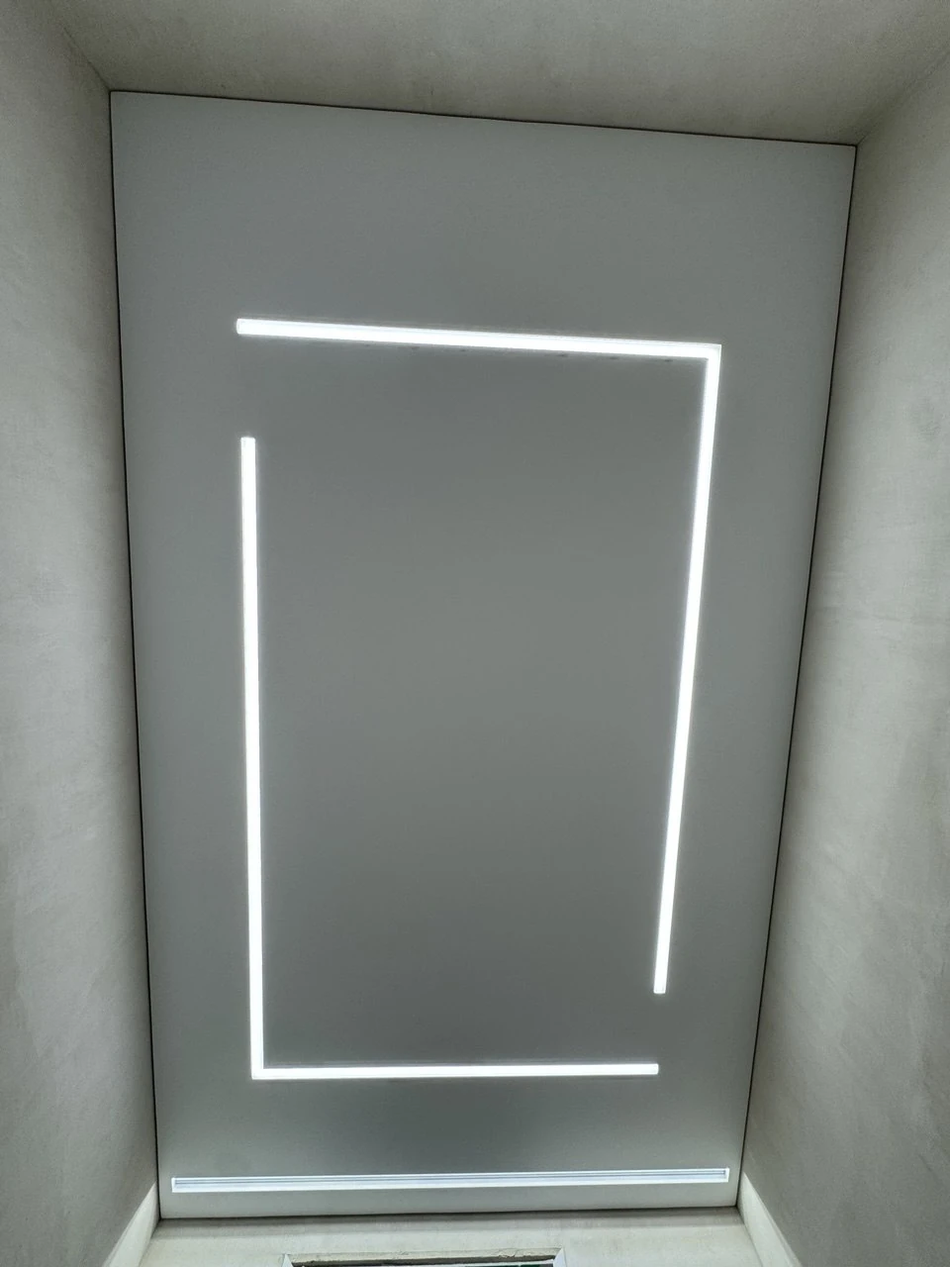
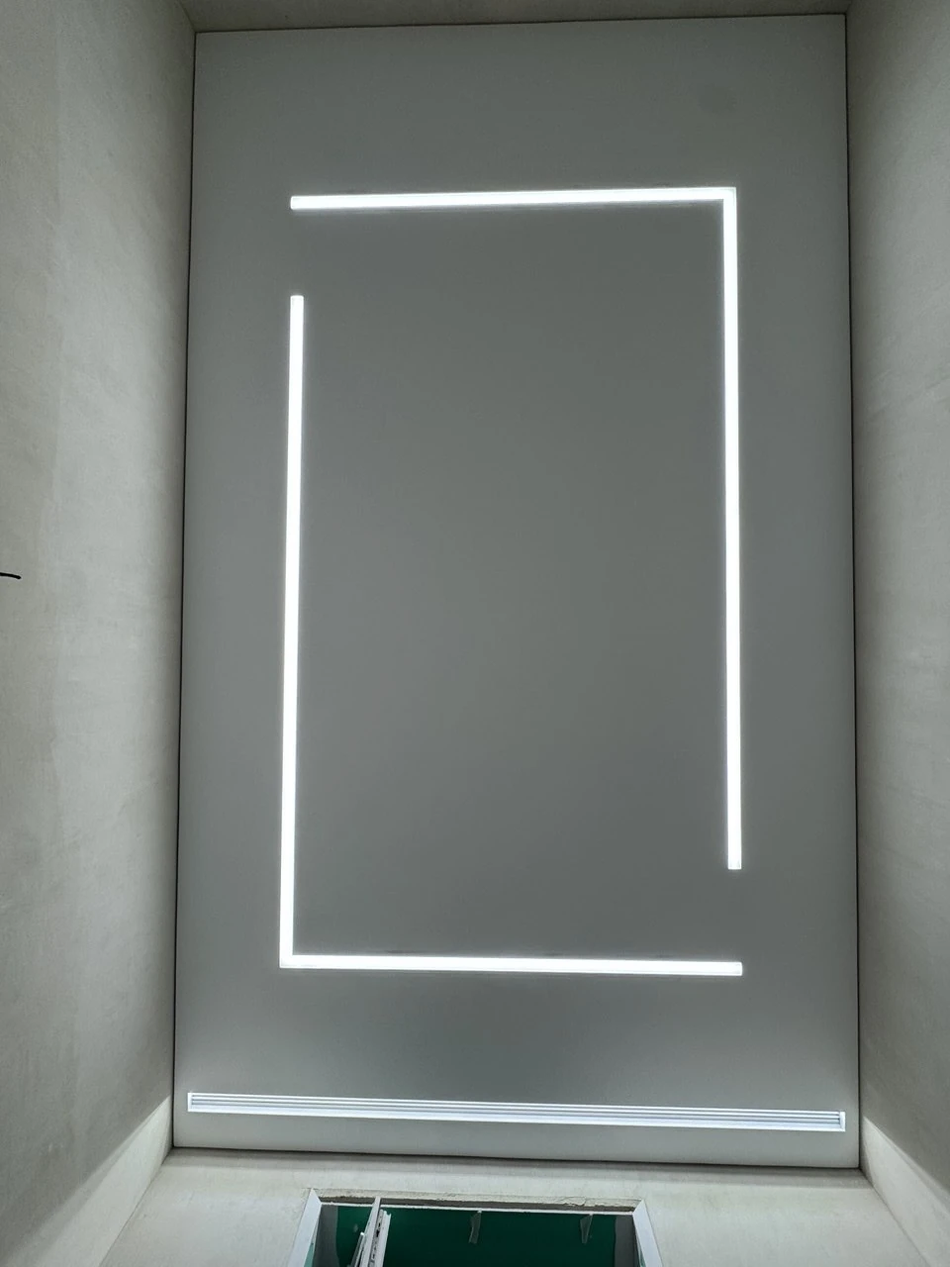
Портфолио: 17 работ в порядке заказчика
Заказчик прислал работы для сайта по порядку — портфолио теперь ровно
этот список и в этой последовательности. 12 новых фото (третья партия),
световые линии буквой Г — новый кадр той же комнаты, повёрнут под ракурс
монтажа. Работы не из списка сняты с сайта, файлы остались.

diff --git a/index.html b/index.html
@@ -30,7 +30,7 @@ if (location.hostname.endsWith('github.io')) {
 
 <link rel="icon" href="img/favicon.svg" type="image/svg+xml">
 <link rel="preload" href="fonts/onest-cyrillic.woff2" as="font" type="font/woff2" crossorigin>
-<link rel="stylesheet" href="css/style.css?v=21">
+<link rel="stylesheet" href="css/style.css?v=22">
 
 <script type="application/ld+json">
 {
@@ -416,28 +416,28 @@ if (location.hostname.endsWith('github.io')) {
       <button class="filter" type="button" data-filter="soty" aria-pressed="false">LED-соты</button>
     </div>
 
-    <!-- Порядок = порядок показа: первые 8 видно сразу (на планшете 9),
+    <!-- Порядок задал заказчик (10.10.2026) — не менять. Первые 8 видно сразу (на планшете 9),
          остальные открывает кнопка «Показать ещё». На телефоне — лента целиком. -->
     <div class="works" id="works">
-      <button class="work" type="button" data-tags="track" aria-label="Открыть фото: Кухня с треком-рамкой">
+      <button class="work" type="button" data-tags="floating" aria-label="Открыть фото: Парящий потолок с подсветкой">
         <span class="work__media">
-          <img src="img/portfolio/kuhnya-trek-ramka.webp" srcset="img/portfolio/kuhnya-trek-ramka.webp 600w, img/portfolio/lg/kuhnya-trek-ramka.webp 788w" sizes="(max-width: 639px) 78vw, (max-width: 1023px) 31vw, 270px" data-full="img/portfolio/full/kuhnya-trek-ramka.webp" width="600" height="800" loading="lazy" alt="Встроенная трековая система рамкой на натяжном потолке кухни, Ижевск" data-ph="Кухня с треком-рамкой">
+          <img src="img/portfolio/paryashchiy-podsvetka.webp" srcset="img/portfolio/paryashchiy-podsvetka.webp 600w, img/portfolio/lg/paryashchiy-podsvetka.webp 893w" sizes="(max-width: 639px) 78vw, (max-width: 1023px) 31vw, 270px" data-full="img/portfolio/full/paryashchiy-podsvetka.webp" width="600" height="800" loading="lazy" alt="Парящий потолок с подсветкой по всему периметру, матовое полотно, Ижевск" data-ph="Парящий потолок с подсветкой">
           <span class="work__zoom" aria-hidden="true"><svg width="17" height="17" viewBox="0 0 24 24" fill="none" stroke="currentColor" stroke-width="2" stroke-linecap="round"><circle cx="11" cy="11" r="7"/><path d="M21 21l-4.3-4.3M11 8v6M8 11h6"/></svg></span>
         </span>
         <span class="work__body">
-          <span class="work__title">Кухня с треком-рамкой</span>
-          <span class="work__meta">Встроенный трек рамкой · линейные светильники</span>
+          <span class="work__title">Парящий потолок с подсветкой</span>
+          <span class="work__meta">Свет по всему периметру · матовое полотно</span>
         </span>
       </button>
 
-      <button class="work" type="button" data-tags="line" aria-label="Открыть фото: Световые линии буквой Г">
+      <button class="work" type="button" data-tags="shadow" aria-label="Открыть фото: Прихожая с теневым профилем">
         <span class="work__media">
-          <img src="img/portfolio/svetovye-linii-bukvoy-g.webp" srcset="img/portfolio/svetovye-linii-bukvoy-g.webp 600w, img/portfolio/lg/svetovye-linii-bukvoy-g.webp 960w" sizes="(max-width: 639px) 78vw, (max-width: 1023px) 31vw, 270px" data-full="img/portfolio/full/svetovye-linii-bukvoy-g.webp" width="600" height="800" loading="lazy" alt="Две Г-образные световые линии на матовом натяжном потолке, Ижевск" data-ph="Световые линии буквой Г">
+          <img src="img/portfolio/prihozhaya-tenevoy-spoty.webp" srcset="img/portfolio/prihozhaya-tenevoy-spoty.webp 600w, img/portfolio/lg/prihozhaya-tenevoy-spoty.webp 960w" sizes="(max-width: 639px) 78vw, (max-width: 1023px) 31vw, 270px" data-full="img/portfolio/full/prihozhaya-tenevoy-spoty.webp" width="600" height="800" loading="lazy" alt="Натяжной потолок с теневым профилем и точечными светильниками в прихожей, Ижевск" data-ph="Прихожая с теневым профилем">
           <span class="work__zoom" aria-hidden="true"><svg width="17" height="17" viewBox="0 0 24 24" fill="none" stroke="currentColor" stroke-width="2" stroke-linecap="round"><circle cx="11" cy="11" r="7"/><path d="M21 21l-4.3-4.3M11 8v6M8 11h6"/></svg></span>
         </span>
         <span class="work__body">
-          <span class="work__title">Световые линии буквой Г</span>
-          <span class="work__meta">Две Г-образные линии и прямая вдоль стены</span>
+          <span class="work__title">Прихожая с теневым профилем</span>
+          <span class="work__meta">Теневой шов по контуру · точечные светильники</span>
         </span>
       </button>
 
@@ -452,47 +452,25 @@ if (location.hostname.endsWith('github.io')) {
         </span>
       </button>
 
-      <button class="work" type="button" data-tags="track" aria-label="Открыть фото: Трековая система на глянце">
+      <button class="work" type="button" data-tags="line" aria-label="Открыть фото: Монтаж световых линий">
         <span class="work__media">
-          <img src="img/portfolio/trek-glyanec.webp" srcset="img/portfolio/trek-glyanec.webp 600w, img/portfolio/lg/trek-glyanec.webp 720w" sizes="(max-width: 639px) 78vw, (max-width: 1023px) 31vw, 270px" data-full="img/portfolio/full/trek-glyanec.webp" width="600" height="800" loading="lazy" alt="Натяжной потолок с магнитной трековой системой на глянцевом полотне, Ижевск" data-ph="Трековая система на глянце">
+          <img src="img/portfolio/montazh-svetovyh-liniy.webp" srcset="img/portfolio/montazh-svetovyh-liniy.webp 600w, img/portfolio/lg/montazh-svetovyh-liniy.webp 960w" sizes="(max-width: 639px) 78vw, (max-width: 1023px) 31vw, 270px" data-full="img/portfolio/full/montazh-svetovyh-liniy.webp" width="600" height="800" loading="lazy" alt="Монтаж профилей световых линий на черновом потолке до натяжки полотна, Ижевск" data-ph="Монтаж световых линий">
           <span class="work__zoom" aria-hidden="true"><svg width="17" height="17" viewBox="0 0 24 24" fill="none" stroke="currentColor" stroke-width="2" stroke-linecap="round"><circle cx="11" cy="11" r="7"/><path d="M21 21l-4.3-4.3M11 8v6M8 11h6"/></svg></span>
         </span>
         <span class="work__body">
-          <span class="work__title">Трековая система на глянце</span>
-          <span class="work__meta">Магнитный шинопровод · Г-образная раскладка</span>
+          <span class="work__title">Монтаж световых линий</span>
+          <span class="work__meta">Профили линий на черновом потолке до натяжки</span>
         </span>
       </button>
 
-      <button class="work" type="button" data-tags="cornice" aria-label="Открыть фото: Лоджия со скрытым карнизом">
+      <button class="work" type="button" data-tags="line" aria-label="Открыть фото: Световые линии буквой Г">
         <span class="work__media">
-          <img src="img/portfolio/lodzhiya-skrytyy-karniz.webp" srcset="img/portfolio/lodzhiya-skrytyy-karniz.webp 600w, img/portfolio/lg/lodzhiya-skrytyy-karniz.webp 768w" sizes="(max-width: 639px) 78vw, (max-width: 1023px) 31vw, 270px" data-full="img/portfolio/full/lodzhiya-skrytyy-karniz.webp" width="600" height="800" loading="lazy" alt="Скрытый карниз с подсветкой и накладные светильники на натяжном потолке лоджии, Ижевск" data-ph="Лоджия со скрытым карнизом">
+          <img src="img/portfolio/svetovye-linii-bukvoy-g.webp" srcset="img/portfolio/svetovye-linii-bukvoy-g.webp 600w, img/portfolio/lg/svetovye-linii-bukvoy-g.webp 960w" sizes="(max-width: 639px) 78vw, (max-width: 1023px) 31vw, 270px" data-full="img/portfolio/full/svetovye-linii-bukvoy-g.webp" width="600" height="800" loading="lazy" alt="Две Г-образные световые линии на матовом натяжном потолке, Ижевск" data-ph="Световые линии буквой Г">
           <span class="work__zoom" aria-hidden="true"><svg width="17" height="17" viewBox="0 0 24 24" fill="none" stroke="currentColor" stroke-width="2" stroke-linecap="round"><circle cx="11" cy="11" r="7"/><path d="M21 21l-4.3-4.3M11 8v6M8 11h6"/></svg></span>
         </span>
         <span class="work__body">
-          <span class="work__title">Лоджия со скрытым карнизом</span>
-          <span class="work__meta">Ниша под шторы с подсветкой · накладные светильники</span>
-        </span>
-      </button>
-
-      <button class="work" type="button" data-tags="line" aria-label="Открыть фото: Мансарда со световыми линиями">
-        <span class="work__media">
-          <img src="img/portfolio/mansarda-svetovye-linii.webp" srcset="img/portfolio/mansarda-svetovye-linii.webp 600w, img/portfolio/lg/mansarda-svetovye-linii.webp 691w" sizes="(max-width: 639px) 78vw, (max-width: 1023px) 31vw, 270px" data-full="img/portfolio/full/mansarda-svetovye-linii.webp" width="600" height="800" loading="lazy" alt="Световые линии на натяжном потолке мансарды со скатами, Ижевск" data-ph="Мансарда со световыми линиями">
-          <span class="work__zoom" aria-hidden="true"><svg width="17" height="17" viewBox="0 0 24 24" fill="none" stroke="currentColor" stroke-width="2" stroke-linecap="round"><circle cx="11" cy="11" r="7"/><path d="M21 21l-4.3-4.3M11 8v6M8 11h6"/></svg></span>
-        </span>
-        <span class="work__body">
-          <span class="work__title">Мансарда со световыми линиями</span>
-          <span class="work__meta">Г-образные линии на скатах · мансардные окна</span>
-        </span>
-      </button>
-
-      <button class="work" type="button" data-tags="track shadow" aria-label="Открыть фото: Прихожая сложной формы">
-        <span class="work__media">
-          <img src="img/portfolio/prihozhaya-trek-tenevoy.webp" srcset="img/portfolio/prihozhaya-trek-tenevoy.webp 600w, img/portfolio/lg/prihozhaya-trek-tenevoy.webp 960w" sizes="(max-width: 639px) 78vw, (max-width: 1023px) 31vw, 270px" data-full="img/portfolio/full/prihozhaya-trek-tenevoy.webp" width="600" height="800" loading="lazy" alt="Натяжной потолок сложной формы с теневым профилем и встроенным треком в прихожей, Ижевск" data-ph="Прихожая сложной формы">
-          <span class="work__zoom" aria-hidden="true"><svg width="17" height="17" viewBox="0 0 24 24" fill="none" stroke="currentColor" stroke-width="2" stroke-linecap="round"><circle cx="11" cy="11" r="7"/><path d="M21 21l-4.3-4.3M11 8v6M8 11h6"/></svg></span>
-        </span>
-        <span class="work__body">
-          <span class="work__title">Прихожая сложной формы</span>
-          <span class="work__meta">Теневой профиль по контуру · трек со спотами</span>
+          <span class="work__title">Световые линии буквой Г</span>
+          <span class="work__meta">Две Г-образные линии и прямая вдоль стены</span>
         </span>
       </button>
 
@@ -507,113 +485,124 @@ if (location.hostname.endsWith('github.io')) {
         </span>
       </button>
 
-      <button class="work" type="button" data-tags="shadow" aria-label="Открыть фото: Санузел с теневым профилем">
+      <button class="work" type="button" data-tags="track" aria-label="Открыть фото: Трек вдоль стеллажей">
         <span class="work__media">
-          <img src="img/portfolio/tenevoy-profil-sanuzel.webp" srcset="img/portfolio/tenevoy-profil-sanuzel.webp 600w, img/portfolio/lg/tenevoy-profil-sanuzel.webp 960w" sizes="(max-width: 639px) 78vw, (max-width: 1023px) 31vw, 270px" data-full="img/portfolio/full/tenevoy-profil-sanuzel.webp" width="600" height="800" loading="lazy" alt="Натяжной потолок с теневым профилем EuroKraab в санузле, Ижевск" data-ph="Санузел с теневым профилем">
+          <img src="img/portfolio/komnata-trek-polki.webp" srcset="img/portfolio/komnata-trek-polki.webp 600w, img/portfolio/lg/komnata-trek-polki.webp 960w" sizes="(max-width: 639px) 78vw, (max-width: 1023px) 31vw, 270px" data-full="img/portfolio/full/komnata-trek-polki.webp" width="600" height="800" loading="lazy" alt="Встроенный чёрный трек со спотами вдоль стеллажей, Ижевск" data-ph="Трек вдоль стеллажей">
           <span class="work__zoom" aria-hidden="true"><svg width="17" height="17" viewBox="0 0 24 24" fill="none" stroke="currentColor" stroke-width="2" stroke-linecap="round"><circle cx="11" cy="11" r="7"/><path d="M21 21l-4.3-4.3M11 8v6M8 11h6"/></svg></span>
         </span>
         <span class="work__body">
-          <span class="work__title">Санузел с теневым профилем</span>
-          <span class="work__meta">Теневой шов по периметру · 4 точечных светильника</span>
+          <span class="work__title">Трек вдоль стеллажей</span>
+          <span class="work__meta">Чёрный трек буквой Г · споты</span>
         </span>
       </button>
 
-      <button class="work" type="button" data-tags="track shadow" aria-label="Открыть фото: Комната с длинным треком">
+      <button class="work" type="button" data-tags="line" aria-label="Открыть фото: Световая линия буквой Г">
         <span class="work__media">
-          <img src="img/portfolio/komnata-trek-tenevoy.webp" srcset="img/portfolio/komnata-trek-tenevoy.webp 600w, img/portfolio/lg/komnata-trek-tenevoy.webp 902w" sizes="(max-width: 639px) 78vw, (max-width: 1023px) 31vw, 270px" data-full="img/portfolio/full/komnata-trek-tenevoy.webp" width="600" height="800" loading="lazy" alt="Встроенный чёрный трек со спотами и теневой профиль по периметру комнаты, Ижевск" data-ph="Комната с длинным треком">
+          <img src="img/portfolio/liniya-bukvoy-g-svetilnik.webp" srcset="img/portfolio/liniya-bukvoy-g-svetilnik.webp 600w, img/portfolio/lg/liniya-bukvoy-g-svetilnik.webp 960w" sizes="(max-width: 639px) 78vw, (max-width: 1023px) 31vw, 270px" data-full="img/portfolio/full/liniya-bukvoy-g-svetilnik.webp" width="600" height="800" loading="lazy" alt="Г-образная световая линия и накладной светильник на натяжном потолке, Ижевск" data-ph="Световая линия буквой Г">
           <span class="work__zoom" aria-hidden="true"><svg width="17" height="17" viewBox="0 0 24 24" fill="none" stroke="currentColor" stroke-width="2" stroke-linecap="round"><circle cx="11" cy="11" r="7"/><path d="M21 21l-4.3-4.3M11 8v6M8 11h6"/></svg></span>
         </span>
         <span class="work__body">
-          <span class="work__title">Комната с длинным треком</span>
-          <span class="work__meta">Чёрный трек со спотами · теневой профиль</span>
+          <span class="work__title">Световая линия буквой Г</span>
+          <span class="work__meta">Линия вдоль стены · светильник на три плафона</span>
         </span>
       </button>
 
-      <button class="work" type="button" data-tags="track cornice shadow" aria-label="Открыть фото: Холл с трековым контуром">
+      <button class="work" type="button" data-tags="track cornice" aria-label="Открыть фото: Глянец с линейным светом">
         <span class="work__media">
-          <img src="img/portfolio/trek-karniz-vstavka.webp" srcset="img/portfolio/trek-karniz-vstavka.webp 600w, img/portfolio/lg/trek-karniz-vstavka.webp 884w" sizes="(max-width: 639px) 78vw, (max-width: 1023px) 31vw, 270px" data-full="img/portfolio/full/trek-karniz-vstavka.webp" width="600" height="800" loading="lazy" alt="Замкнутый контур трековой системы, скрытый карниз и чёрная вставка по периметру, Ижевск" data-ph="Холл с трековым контуром">
+          <img src="img/portfolio/glyanec-lineynye-svetilniki.webp" srcset="img/portfolio/glyanec-lineynye-svetilniki.webp 600w, img/portfolio/lg/glyanec-lineynye-svetilniki.webp 960w" sizes="(max-width: 639px) 78vw, (max-width: 1023px) 31vw, 270px" data-full="img/portfolio/full/glyanec-lineynye-svetilniki.webp" width="600" height="800" loading="lazy" alt="Глянцевый натяжной потолок с трековыми линейными светильниками, Ижевск" data-ph="Глянец с линейным светом">
           <span class="work__zoom" aria-hidden="true"><svg width="17" height="17" viewBox="0 0 24 24" fill="none" stroke="currentColor" stroke-width="2" stroke-linecap="round"><circle cx="11" cy="11" r="7"/><path d="M21 21l-4.3-4.3M11 8v6M8 11h6"/></svg></span>
         </span>
         <span class="work__body">
-          <span class="work__title">Холл с трековым контуром</span>
-          <span class="work__meta">Замкнутая рамка трека · скрытый карниз · чёрная вставка</span>
+          <span class="work__title">Глянец с линейным светом</span>
+          <span class="work__meta">Трек с линейными светильниками · подсветка у окна</span>
         </span>
       </button>
 
-      <button class="work" type="button" data-tags="floating" aria-label="Открыть фото: Парящий потолок с подсветкой">
+      <button class="work" type="button" data-tags="track" aria-label="Открыть фото: Трек буквой Г">
         <span class="work__media">
-          <img src="img/portfolio/paryashchiy-podsvetka.webp" srcset="img/portfolio/paryashchiy-podsvetka.webp 600w, img/portfolio/lg/paryashchiy-podsvetka.webp 893w" sizes="(max-width: 639px) 78vw, (max-width: 1023px) 31vw, 270px" data-full="img/portfolio/full/paryashchiy-podsvetka.webp" width="600" height="800" loading="lazy" alt="Парящий потолок с подсветкой по всему периметру, матовое полотно, Ижевск" data-ph="Парящий потолок с подсветкой">
+          <img src="img/portfolio/trek-bukvoy-g.webp" srcset="img/portfolio/trek-bukvoy-g.webp 600w, img/portfolio/lg/trek-bukvoy-g.webp 960w" sizes="(max-width: 639px) 78vw, (max-width: 1023px) 31vw, 270px" data-full="img/portfolio/full/trek-bukvoy-g.webp" width="600" height="800" loading="lazy" alt="Г-образный встроенный трек с линейными светильниками, Ижевск" data-ph="Трек буквой Г">
           <span class="work__zoom" aria-hidden="true"><svg width="17" height="17" viewBox="0 0 24 24" fill="none" stroke="currentColor" stroke-width="2" stroke-linecap="round"><circle cx="11" cy="11" r="7"/><path d="M21 21l-4.3-4.3M11 8v6M8 11h6"/></svg></span>
         </span>
         <span class="work__body">
-          <span class="work__title">Парящий потолок с подсветкой</span>
-          <span class="work__meta">Свет по всему периметру · матовое полотно</span>
+          <span class="work__title">Трек буквой Г</span>
+          <span class="work__meta">Встроенный трек с линейными светильниками</span>
         </span>
       </button>
 
-      <button class="work" type="button" data-tags="line" aria-label="Открыть фото: Световая линия на глянце">
+      <button class="work" type="button" data-tags="track cornice" aria-label="Открыть фото: Два параллельных трека">
         <span class="work__media">
-          <img src="img/portfolio/svetovaya-liniya-glyanec.webp" srcset="img/portfolio/svetovaya-liniya-glyanec.webp 600w, img/portfolio/lg/svetovaya-liniya-glyanec.webp 768w" sizes="(max-width: 639px) 78vw, (max-width: 1023px) 31vw, 270px" data-full="img/portfolio/full/svetovaya-liniya-glyanec.webp" width="600" height="800" loading="lazy" alt="Прямая световая линия с поликарбонатным рассеивателем на глянцевом потолке, Ижевск" data-ph="Световая линия на глянце">
+          <img src="img/portfolio/dva-treka-glyanec.webp" srcset="img/portfolio/dva-treka-glyanec.webp 600w, img/portfolio/lg/dva-treka-glyanec.webp 960w" sizes="(max-width: 639px) 78vw, (max-width: 1023px) 31vw, 270px" data-full="img/portfolio/full/dva-treka-glyanec.webp" width="600" height="800" loading="lazy" alt="Два параллельных трека с линейными светильниками на глянцевом потолке, Ижевск" data-ph="Два параллельных трека">
           <span class="work__zoom" aria-hidden="true"><svg width="17" height="17" viewBox="0 0 24 24" fill="none" stroke="currentColor" stroke-width="2" stroke-linecap="round"><circle cx="11" cy="11" r="7"/><path d="M21 21l-4.3-4.3M11 8v6M8 11h6"/></svg></span>
         </span>
         <span class="work__body">
-          <span class="work__title">Световая линия на глянце</span>
-          <span class="work__meta">Ровный свет без точек и засветов</span>
+          <span class="work__title">Два параллельных трека</span>
+          <span class="work__meta">Линейные светильники на глянце · ниша под шторы</span>
         </span>
       </button>
 
-      <button class="work" type="button" data-tags="floating cornice" aria-label="Открыть фото: Кухня с парящим потолком">
+      <button class="work" type="button" data-tags="line shadow" aria-label="Открыть фото: Санузел со световой линией">
         <span class="work__media">
-          <img src="img/portfolio/paryashchiy-kuhnya.webp" srcset="img/portfolio/paryashchiy-kuhnya.webp 600w, img/portfolio/lg/paryashchiy-kuhnya.webp 768w" sizes="(max-width: 639px) 78vw, (max-width: 1023px) 31vw, 270px" data-full="img/portfolio/full/paryashchiy-kuhnya.webp" width="600" height="800" loading="lazy" alt="Парящий натяжной потолок с контурной подсветкой и подвесной люстрой на кухне, Ижевск" data-ph="Кухня с парящим потолком">
+          <img src="img/portfolio/sanuzel-spoty-liniya.webp" srcset="img/portfolio/sanuzel-spoty-liniya.webp 600w, img/portfolio/lg/sanuzel-spoty-liniya.webp 720w" sizes="(max-width: 639px) 78vw, (max-width: 1023px) 31vw, 270px" data-full="img/portfolio/full/sanuzel-spoty-liniya.webp" width="600" height="800" loading="lazy" alt="Натяжной потолок в санузле с точечными светильниками и световой линией, Ижевск" data-ph="Санузел со световой линией">
           <span class="work__zoom" aria-hidden="true"><svg width="17" height="17" viewBox="0 0 24 24" fill="none" stroke="currentColor" stroke-width="2" stroke-linecap="round"><circle cx="11" cy="11" r="7"/><path d="M21 21l-4.3-4.3M11 8v6M8 11h6"/></svg></span>
         </span>
         <span class="work__body">
-          <span class="work__title">Кухня с парящим потолком</span>
-          <span class="work__meta">Контурная подсветка · люстра · трековые споты</span>
+          <span class="work__title">Санузел со световой линией</span>
+          <span class="work__meta">Четыре светильника · линия в углу · теневой профиль</span>
         </span>
       </button>
 
-      <button class="work" type="button" data-tags="cornice" aria-label="Открыть фото: Санузел под ключ">
+      <button class="work" type="button" data-tags="cornice" aria-label="Открыть фото: Комната с мансардным окном">
         <span class="work__media">
-          <img src="img/portfolio/tochechnye-sanuzel.webp" srcset="img/portfolio/tochechnye-sanuzel.webp 600w, img/portfolio/lg/tochechnye-sanuzel.webp 960w" sizes="(max-width: 639px) 78vw, (max-width: 1023px) 31vw, 270px" data-full="img/portfolio/full/tochechnye-sanuzel.webp" width="600" height="800" loading="lazy" alt="Натяжной потолок в санузле с точечными светильниками и подсветкой ниши, Ижевск" data-ph="Санузел под ключ">
+          <img src="img/portfolio/mansardnoe-okno-karniz.webp" srcset="img/portfolio/mansardnoe-okno-karniz.webp 600w, img/portfolio/lg/mansardnoe-okno-karniz.webp 960w" sizes="(max-width: 639px) 78vw, (max-width: 1023px) 31vw, 270px" data-full="img/portfolio/full/mansardnoe-okno-karniz.webp" width="600" height="800" loading="lazy" alt="Натяжной потолок со скрытым карнизом с подсветкой у мансардного окна, Ижевск" data-ph="Комната с мансардным окном">
           <span class="work__zoom" aria-hidden="true"><svg width="17" height="17" viewBox="0 0 24 24" fill="none" stroke="currentColor" stroke-width="2" stroke-linecap="round"><circle cx="11" cy="11" r="7"/><path d="M21 21l-4.3-4.3M11 8v6M8 11h6"/></svg></span>
         </span>
         <span class="work__body">
-          <span class="work__title">Санузел под ключ</span>
-          <span class="work__meta">Точечные светильники · подсветка ниши</span>
+          <span class="work__title">Комната с мансардным окном</span>
+          <span class="work__meta">Скрытый карниз с подсветкой у окна</span>
         </span>
       </button>
 
-      <button class="work" type="button" data-tags="track" aria-label="Открыть фото: Детская с трековым светом">
+      <button class="work" type="button" data-tags="line shadow" aria-label="Открыть фото: Две световые линии">
         <span class="work__media">
-          <img src="img/portfolio/trek-lyustra-detskaya.webp" srcset="img/portfolio/trek-lyustra-detskaya.webp 600w, img/portfolio/lg/trek-lyustra-detskaya.webp 960w" sizes="(max-width: 639px) 78vw, (max-width: 1023px) 31vw, 270px" data-full="img/portfolio/full/trek-lyustra-detskaya.webp" width="600" height="800" loading="lazy" alt="Натяжной потолок в детской с трековыми спотами и люстрой, Ижевск" data-ph="Детская с трековым светом">
+          <img src="img/portfolio/dve-linii-tenevoy.webp" srcset="img/portfolio/dve-linii-tenevoy.webp 600w, img/portfolio/lg/dve-linii-tenevoy.webp 960w" sizes="(max-width: 639px) 78vw, (max-width: 1023px) 31vw, 270px" data-full="img/portfolio/full/dve-linii-tenevoy.webp" width="600" height="800" loading="lazy" alt="Две параллельные световые линии и теневой профиль на натяжном потолке, Ижевск" data-ph="Две световые линии">
           <span class="work__zoom" aria-hidden="true"><svg width="17" height="17" viewBox="0 0 24 24" fill="none" stroke="currentColor" stroke-width="2" stroke-linecap="round"><circle cx="11" cy="11" r="7"/><path d="M21 21l-4.3-4.3M11 8v6M8 11h6"/></svg></span>
         </span>
         <span class="work__body">
-          <span class="work__title">Детская с трековым светом</span>
-          <span class="work__meta">Трек со спотами · люстра-самолёт</span>
+          <span class="work__title">Две световые линии</span>
+          <span class="work__meta">Параллельные линии · теневой профиль</span>
         </span>
       </button>
 
-      <button class="work" type="button" data-tags="line" aria-label="Открыть фото: Монтаж световой линии">
+      <button class="work" type="button" data-tags="floating" aria-label="Открыть фото: Ванная с люстрой-кольцом">
         <span class="work__media">
-          <img src="img/portfolio/montazh-svetovoy-linii.webp" srcset="img/portfolio/montazh-svetovoy-linii.webp 600w, img/portfolio/lg/montazh-svetovoy-linii.webp 922w" sizes="(max-width: 639px) 78vw, (max-width: 1023px) 31vw, 270px" data-full="img/portfolio/full/montazh-svetovoy-linii.webp" width="600" height="800" loading="lazy" alt="Монтаж П-образной световой линии на черновом потолке до натяжки полотна, Ижевск" data-ph="Монтаж световой линии">
+          <img src="img/portfolio/vannaya-lyustra-kolco.webp" srcset="img/portfolio/vannaya-lyustra-kolco.webp 600w, img/portfolio/lg/vannaya-lyustra-kolco.webp 960w" sizes="(max-width: 639px) 78vw, (max-width: 1023px) 31vw, 270px" data-full="img/portfolio/full/vannaya-lyustra-kolco.webp" width="600" height="800" loading="lazy" alt="Натяжной потолок с контурной подсветкой и люстрой-кольцом в ванной, Ижевск" data-ph="Ванная с люстрой-кольцом">
           <span class="work__zoom" aria-hidden="true"><svg width="17" height="17" viewBox="0 0 24 24" fill="none" stroke="currentColor" stroke-width="2" stroke-linecap="round"><circle cx="11" cy="11" r="7"/><path d="M21 21l-4.3-4.3M11 8v6M8 11h6"/></svg></span>
         </span>
         <span class="work__body">
-          <span class="work__title">Монтаж световой линии</span>
-          <span class="work__meta">П-образная линия до натяжки полотна</span>
+          <span class="work__title">Ванная с люстрой-кольцом</span>
+          <span class="work__meta">Контурная подсветка · подвесная люстра</span>
         </span>
       </button>
 
-      <button class="work" type="button" data-tags="line floating" aria-label="Открыть фото: Монтаж парящей конструкции">
+      <button class="work" type="button" data-tags="line" aria-label="Открыть фото: Мансарда со световыми линиями">
         <span class="work__media">
-          <img src="img/portfolio/montazh-paryashchey.webp" srcset="img/portfolio/montazh-paryashchey.webp 600w, img/portfolio/lg/montazh-paryashchey.webp 662w" sizes="(max-width: 639px) 78vw, (max-width: 1023px) 31vw, 270px" data-full="img/portfolio/full/montazh-paryashchey.webp" width="600" height="800" loading="lazy" alt="Монтаж парящей конструкции со светодиодной подсветкой по контуру, Ижевск" data-ph="Монтаж парящей конструкции">
+          <img src="img/portfolio/mansarda-svetovye-linii.webp" srcset="img/portfolio/mansarda-svetovye-linii.webp 600w, img/portfolio/lg/mansarda-svetovye-linii.webp 691w" sizes="(max-width: 639px) 78vw, (max-width: 1023px) 31vw, 270px" data-full="img/portfolio/full/mansarda-svetovye-linii.webp" width="600" height="800" loading="lazy" alt="Световые линии на натяжном потолке мансарды со скатами, Ижевск" data-ph="Мансарда со световыми линиями">
           <span class="work__zoom" aria-hidden="true"><svg width="17" height="17" viewBox="0 0 24 24" fill="none" stroke="currentColor" stroke-width="2" stroke-linecap="round"><circle cx="11" cy="11" r="7"/><path d="M21 21l-4.3-4.3M11 8v6M8 11h6"/></svg></span>
         </span>
         <span class="work__body">
-          <span class="work__title">Монтаж парящей конструкции</span>
-          <span class="work__meta">Профиль с подсветкой по контуру</span>
+          <span class="work__title">Мансарда со световыми линиями</span>
+          <span class="work__meta">Г-образные линии на скатах · мансардные окна</span>
+        </span>
+      </button>
+
+      <button class="work" type="button" data-tags="cornice shadow" aria-label="Открыть фото: Комната со скрытыми карнизами">
+        <span class="work__media">
+          <img src="img/portfolio/komnata-skrytye-karnizy.webp" srcset="img/portfolio/komnata-skrytye-karnizy.webp 600w, img/portfolio/lg/komnata-skrytye-karnizy.webp 960w" sizes="(max-width: 639px) 78vw, (max-width: 1023px) 31vw, 270px" data-full="img/portfolio/full/komnata-skrytye-karnizy.webp" width="600" height="800" loading="lazy" alt="Натяжной потолок со скрытыми карнизами и встроенными светильниками, Ижевск" data-ph="Комната со скрытыми карнизами">
+          <span class="work__zoom" aria-hidden="true"><svg width="17" height="17" viewBox="0 0 24 24" fill="none" stroke="currentColor" stroke-width="2" stroke-linecap="round"><circle cx="11" cy="11" r="7"/><path d="M21 21l-4.3-4.3M11 8v6M8 11h6"/></svg></span>
+        </span>
+        <span class="work__body">
+          <span class="work__title">Комната со скрытыми карнизами</span>
+          <span class="work__meta">Ниши под шторы · встроенные светильники</span>
         </span>
       </button>
     </div>
@@ -1089,7 +1078,7 @@ if (location.hostname.endsWith('github.io')) {
   </figure>
 </div>
 
-<script src="js/main.js?v=21" defer></script>
-<script src="js/calc.js?v=21" defer></script>
+<script src="js/main.js?v=22" defer></script>
+<script src="js/calc.js?v=22" defer></script>
 </body>
 </html>

diff --git a/_tools/prepare_images.py b/_tools/prepare_images.py
@@ -37,6 +37,7 @@ DOCS = 'img/docs'
 ROOT = 'img'
 P = 'photo_2026-09-18_19-03-'      # первая партия фото: в work() передаётся только код, '07'
 N = 'photo_2026-10-02_'            # вторая партия: в work() — имя файла целиком
+T = 'photo_2026-10-10_'            # третья партия
 
 PHOTO_Q = 90                       # качество WebP для фото: ниже 88 гладкий потолок «плывёт»
 
@@ -47,6 +48,7 @@ PHOTO_Q = 90                       # качество WebP для фото: ни
 # xanchor   — доля обрезки слева при горизонтальном кропе
 # width     — ширина результата (только уменьшение); не задана — остаётся исходная
 # pre       — предварительный кроп в долях (left, top, right, bottom)
+# rotate    — поворот против часовой, градусы (кадр потолка снизу можно повернуть)
 # sharp     — резкость (только превью документов, чтобы мелкий текст не плыл)
 # quality   — качество сжатия
 JOBS = [
@@ -62,10 +64,10 @@ JOBS = [
 ]
 
 
-def work(src, name, anchor=0.5, xanchor=0.5, pre=None):
+def work(src, name, anchor=0.5, xanchor=0.5, pre=None, rotate=0):
     """Работа в портфолио: карточка, крупная карточка и версия для просмотра.
     src — код снимка первой партии ('07') или имя файла целиком."""
-    common = dict(src=src if src.endswith('.jpg') else P + src + '.jpg', pre=pre, quality=PHOTO_Q)
+    common = dict(src=src if src.endswith('.jpg') else P + src + '.jpg', pre=pre, rotate=rotate, quality=PHOTO_Q)
     card = dict(common, ratio=(3, 4), anchor=anchor, xanchor=xanchor)
     return [
         dict(card, out=PORTFOLIO + '/' + name + '.webp', width=600),
@@ -92,11 +94,26 @@ JOBS += work('28', 'trek-lyustra-detskaya')
 # той же прихожей (код '29') — на нём трек было не разглядеть
 JOBS += work(N + '22.jpg', 'kuhnya-trek-ramka', anchor=0.45, pre=(0.18, 0, 1, 1))          # слева проём в картоне
 JOBS += work(N + '31.jpg', 'kuhnya-lyustra-podsvetka')
-JOBS += work(N + '33.jpg', 'svetovye-linii-bukvoy-g')
+# та же комната, что на T + '39' (монтаж), — готовый вид; повёрнут, чтобы совпадал ракурс
+JOBS += work(T + '40.jpg', 'svetovye-linii-bukvoy-g', rotate=90)
 JOBS += work(N + '18.jpg', 'lodzhiya-skrytyy-karniz', xanchor=1.0, pre=(0, 0, 1, 0.80))    # внизу пакеты на подоконнике
 JOBS += work(N + '16.jpg', 'mansarda-svetovye-linii', xanchor=1.0, pre=(0, 0, 0.885, 0.72))  # справа стремянка, внизу коробки
 JOBS += work(N + '28.jpg', 'prihozhaya-trek-tenevoy')
 JOBS += work(N + '21.jpg', 'komnata-trek-tenevoy', pre=(0, 0, 1, 0.94))                  # в углу плёнка
+
+# третья партия, 10.10.2026 — заказчик сам выбрал работы и порядок на сайте
+JOBS += work(T + '37.jpg', 'prihozhaya-tenevoy-spoty')
+JOBS += work(T + '39.jpg', 'montazh-svetovyh-liniy')
+JOBS += work(T + '42.jpg', 'komnata-trek-polki')
+JOBS += work(T + '43.jpg', 'liniya-bukvoy-g-svetilnik')
+JOBS += work(T + '44.jpg', 'glyanec-lineynye-svetilniki')
+JOBS += work(T + '45.jpg', 'trek-bukvoy-g')
+JOBS += work(T + '46.jpg', 'dva-treka-glyanec')
+JOBS += work(T + '47.jpg', 'sanuzel-spoty-liniya', xanchor=0.45)  # горизонтальный кадр
+JOBS += work(T + '48.jpg', 'mansardnoe-okno-karniz')
+JOBS += work(T + '49.jpg', 'dve-linii-tenevoy')
+JOBS += work(T + '50.jpg', 'vannaya-lyustra-kolco')
+JOBS += work(T + '52.jpg', 'komnata-skrytye-karnizy')
 
 # ---------------- запас под будущие посадочные ----------------
 JOBS += work('32', 'trek-podsvetka-stellazha')                  # горизонтальный кадр
@@ -154,6 +171,8 @@ def main():
             continue
 
         im = ImageOps.exif_transpose(Image.open(src)).convert('RGB')
+        if job.get('rotate'):
+            im = im.rotate(job['rotate'], expand=True)
         if job.get('pre'):
             im = pre_crop(im, job['pre'])
         if job.get('ratio'):

diff --git a/README.md b/README.md
@@ -127,38 +127,18 @@ python _tools/prepare_images.py
 (в нём настоящая ширина файла из `lg/`: если кадр подрезан через `pre`, она меньше 960). Новая работа в портфолио —
 строка `JOBS += work(...)` в скрипте и копия карточки `<button class="work">` в разметке.
 
-**Порядок карточек = порядок показа.** На десктопе сначала видно 8 работ (2 ряда),
-на планшете 9, остальные открывает кнопка «Показать ещё N работ». Поэтому самые сильные
-кадры стоят первыми. На телефоне портфолио — лента со свайпом, там видно всё. Если
+**Порядок и состав работ задал заказчик** (10.10.2026) — 17 фото в том порядке, в котором
+он их прислал. Порядок = порядок карточек в `index.html`, менять его без заказчика не надо.
+На десктопе сначала видно 8 работ (2 ряда), на планшете 9, остальные открывает кнопка
+«Показать ещё N работ». На телефоне портфолио — лента со свайпом, там видно всё. Если
 включён фильтр, показываются все подходящие работы, без кнопки.
 
-**Что где стоит:**
+Работы, которых нет в списке заказчика, сняты с сайта, но их файлы и строки в скрипте
+остались — вернуть можно копией карточки в разметку.
 
-| Файл | На фото | Где |
-|---|---|---|
-| `img/hero.webp` | кухня: контурная подсветка, люстра, трек | первый экран |
-| `img/og-cover.jpg` | трековая система на глянце | превью для соцсетей |
-| `portfolio/kuhnya-trek-ramka.webp` | кухня, встроенный трек рамкой | портфолио, 1-й ряд |
-| `portfolio/svetovye-linii-bukvoy-g.webp` | две Г-образные световые линии | портфолио, 1-й ряд |
-| `portfolio/kuhnya-lyustra-podsvetka.webp` | кухня, контурная подсветка и хрустальная люстра | портфолио, 1-й ряд |
-| `portfolio/trek-glyanec.webp` | магнитный трек на глянце | портфолио, 1-й ряд |
-| `portfolio/lodzhiya-skrytyy-karniz.webp` | лоджия, скрытый карниз с подсветкой | портфолио, 2-й ряд |
-| `portfolio/mansarda-svetovye-linii.webp` | мансарда, световые линии на скатах | портфолио, 2-й ряд |
-| `portfolio/prihozhaya-trek-tenevoy.webp` | прихожая сложной формы, теневой профиль и трек | портфолио, 2-й ряд |
-| `portfolio/komnata-trek-tenevoy.webp` | комната, длинный чёрный трек и теневой профиль | портфолио |
-| `portfolio/trek-karniz-vstavka.webp` | рамка трека, карниз, чёрная вставка | портфолио |
-| `portfolio/tenevoy-profil-sanuzel.webp` | теневой профиль в санузле | портфолио |
-| `portfolio/svetovaya-liniya-glyanec.webp` | световая линия на глянце | портфолио |
-| `portfolio/paryashchiy-kuhnya.webp` | парящий на кухне с люстрой | портфолио |
-| `portfolio/paryashchiy-podsvetka.webp` | парящий с контурной подсветкой | портфолио |
-| `portfolio/led-soty-barbershop.webp` | LED-соты в барбершопе | портфолио |
-| `portfolio/tochechnye-sanuzel.webp` | точечные + подсветка ниши | портфолио |
-| `portfolio/montazh-svetovoy-linii.webp` | монтаж световой линии | портфолио |
-| `portfolio/montazh-paryashchey.webp` | монтаж парящей конструкции | портфолио |
-| `portfolio/trek-lyustra-detskaya.webp` | трек и люстра в детской | портфолио |
-| `portfolio/trek-podsvetka-stellazha.webp` | кабинет, трек и подсветка стеллажа | запас |
-| `portfolio/trek-rgb-detskaya.webp` | детская, трек и RGB-подсветка | запас |
-| `portfolio/trek-kabinet.webp` | кабинет, трек вертикально | запас |
+**Что где стоит:** первый экран — `img/hero.webp` (телефон) и `img/hero-wide.webp`
+(десктоп), превью для соцсетей — `img/og-cover.jpg`. Портфолио — `img/portfolio/`,
+какой файл в какой карточке — видно по `src` в блоке `<div class="works">`.
 
 **Важно:** подписи под карточками описывают то, что видно на фото, без привязки к объектам.
 Какое фото с какого объекта — знает только Руслан. Когда он скажет, подписи меняются
